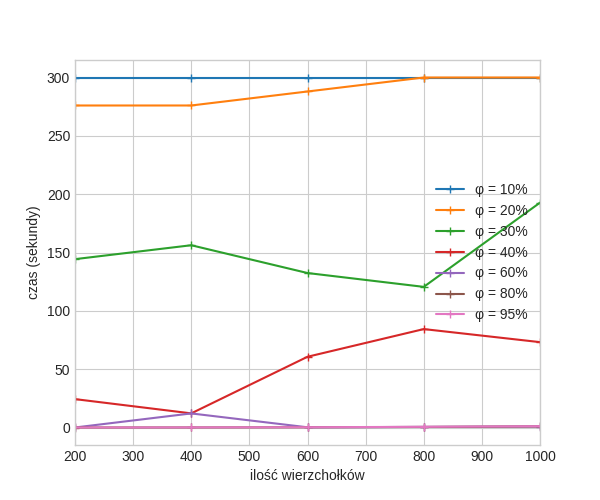
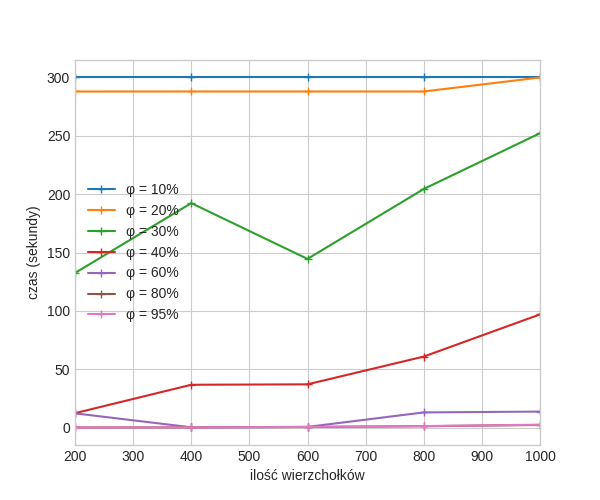
aisd: correct 4

diff --git a/semestr_2/aisd/4_powracanie/src/benchmark.cc b/semestr_2/aisd/4_powracanie/src/benchmark.cc
@@ -52,26 +52,22 @@ struct AdjacencyMatrix {
 		int nodeA, nodeB, nodeC;
 		for (int i = 0; i < V; i++)
 			nodes.push_back(i);
-		for (int i = 0; i < V; i++)
-		{
-			tmp = rand() % nodes.size();
+		for (int i = 0; i < V; i++) {
+			tmp = random(0, nodes.size()-1);
 			cycle.push_back(nodes[tmp]);
 			nodes.erase(nodes.begin() + tmp);
 		}
 
-		for (int i = 0; i < V - 1; i++)
-		{
+		for (int i = 0; i < V - 1; i++) {
 			data[cycle[i]][cycle[i + 1]] = data[cycle[i + 1]][cycle[i]] = true;
 		}
 
 		data[cycle[0]][cycle[cycle.size() - 1]] = data[cycle[cycle.size() - 1]][cycle[0]] = true;
-		for (int i = 0; i < E - V; i += 3)
-		{
-			do
-			{
-				nodeA = rand() % V;
-				nodeB = rand() % V;
-				nodeC = rand() % V;
+		for (int i = 0; i < E - V; i += 3) {
+			do {
+				nodeA = random(0, V-1);
+				nodeB = random(0, V-1);
+				nodeC = random(0, V-1);
 			} while (nodeA == nodeB || nodeA == nodeC || nodeB == nodeC ||
 					data[nodeA][nodeB] == true ||
 					data[nodeA][nodeC] == true ||
